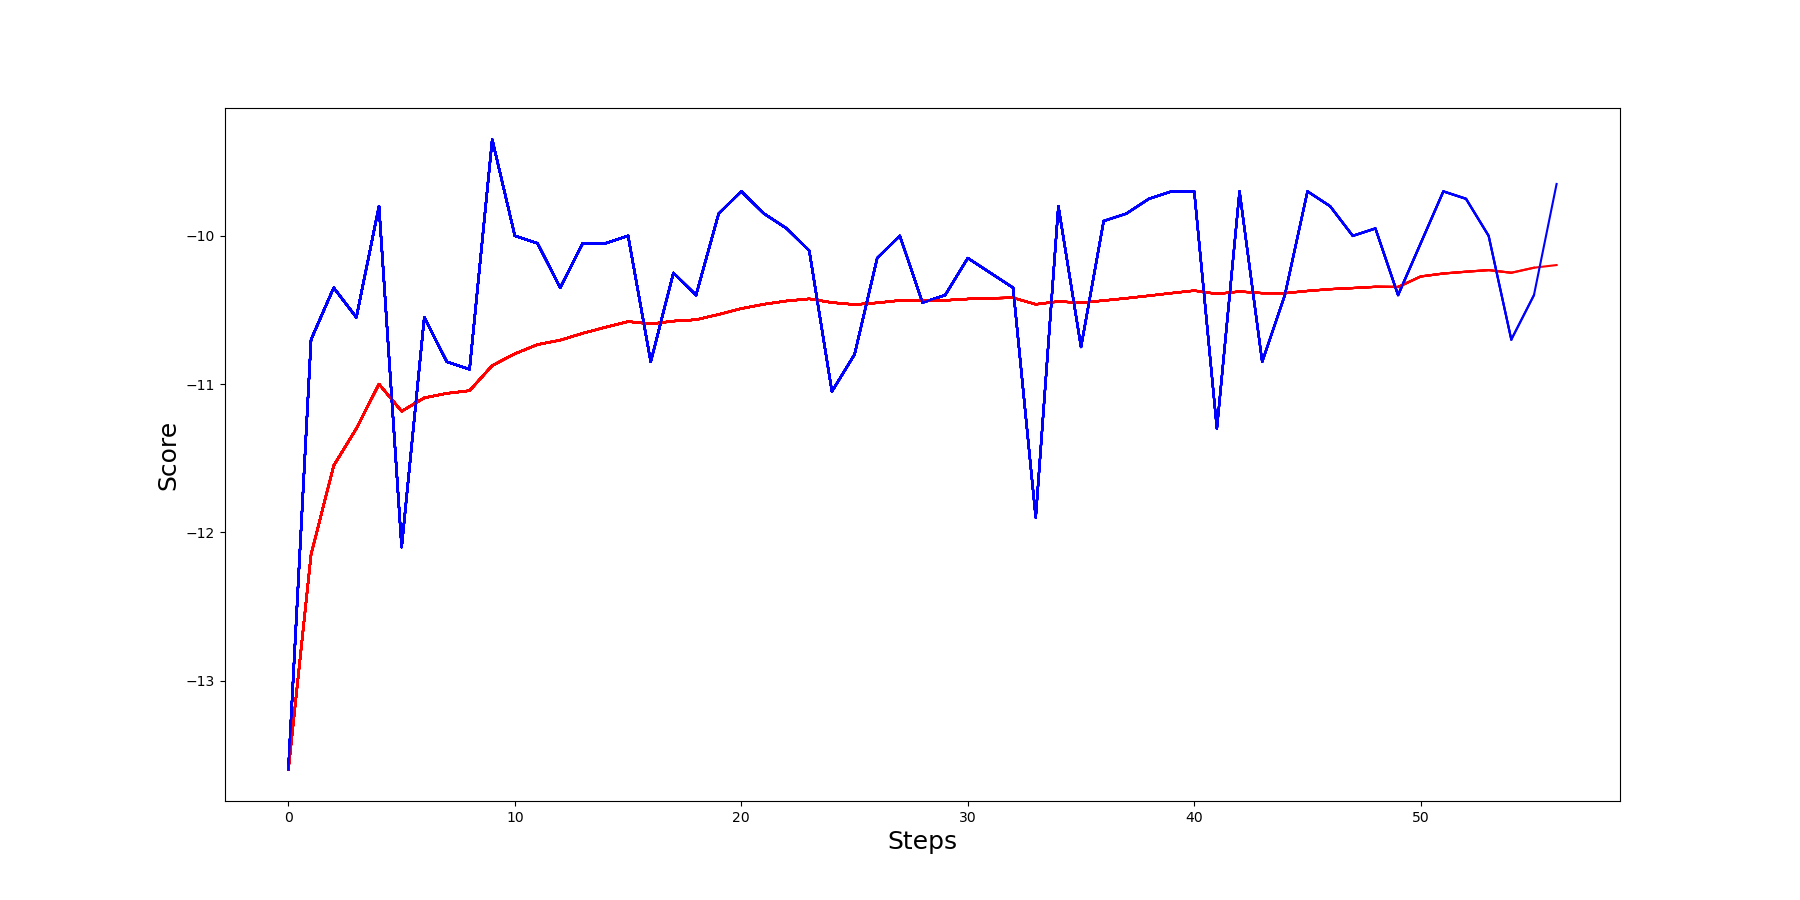
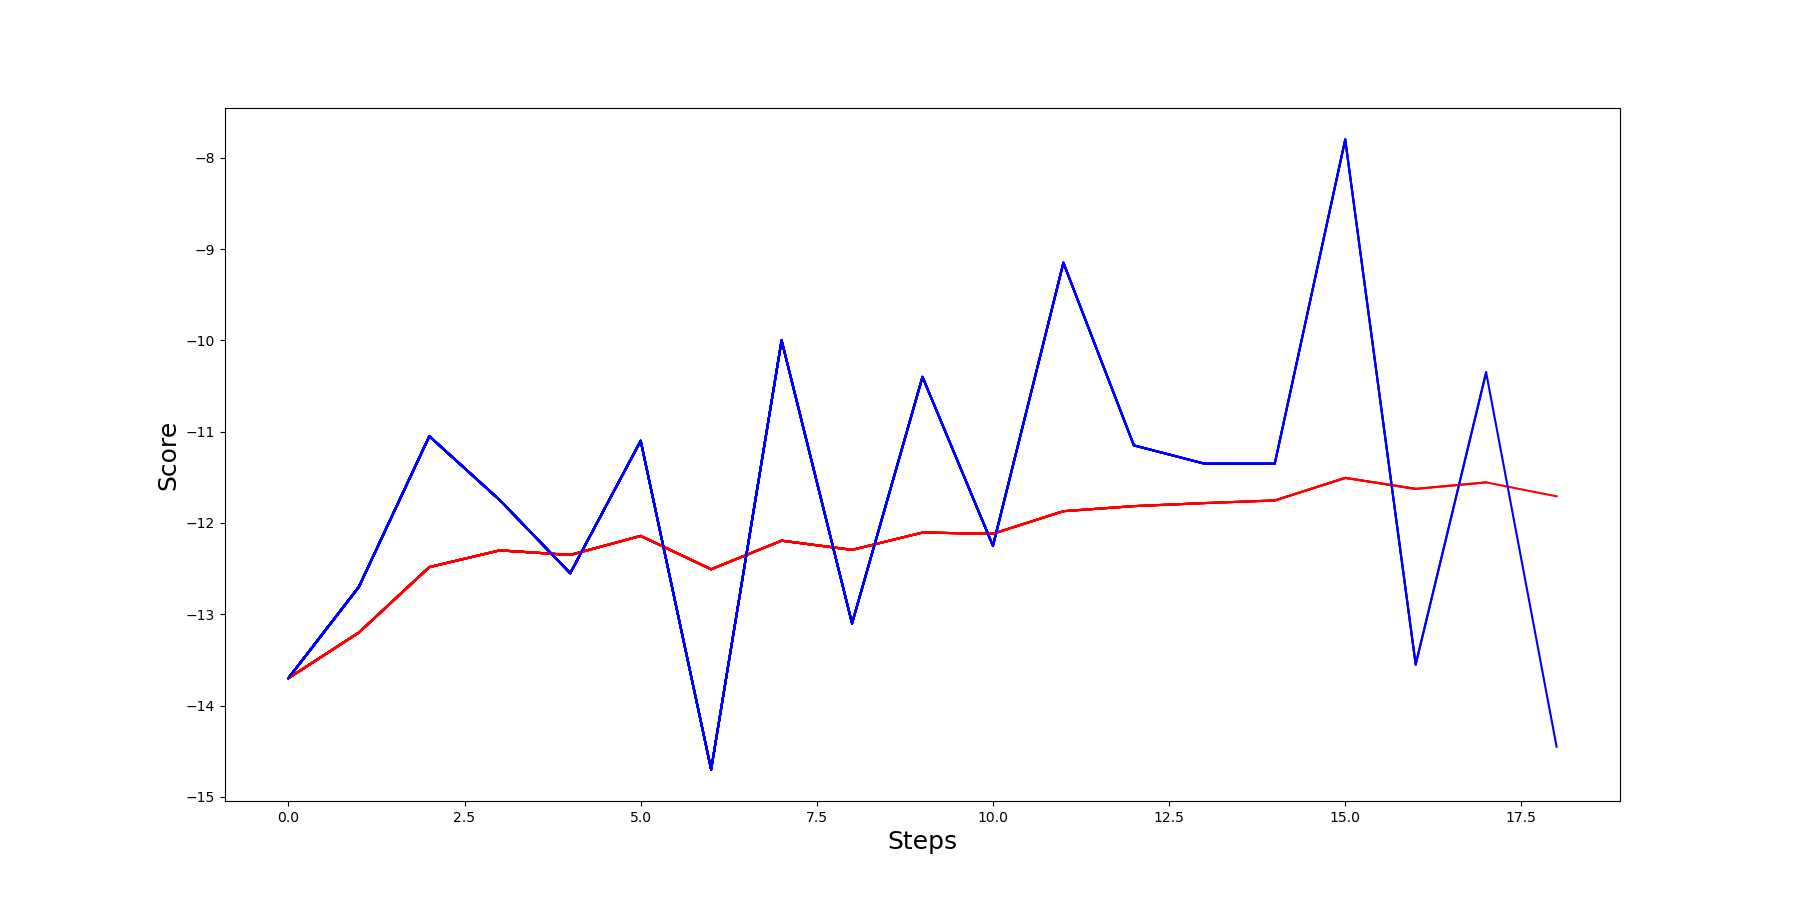
updated reward function

diff --git a/DQN_agent.py b/DQN_agent.py
@@ -130,7 +130,7 @@ class DQN:
 
     
     
-    def build_modelGPU(self, input_shape=(4,1,336), action_space=6, dueling=True):
+    def build_modelGPU(self, input_shape=(4,1,336,1), action_space=6, dueling=True):
         self.network_size = 256
 
         X_input = Input(shape=(4*336,))
@@ -139,19 +139,20 @@ class DQN:
         x_init ="he_uniform" 
         y_init = initializers.glorot_uniform()
         const_init = initializers.constant(1e-2)
-        X = Reshape(input_shape)(X) 
-        X =TimeDistributed(Dense(256, activation="softmax", bias_initializer=const_init,   kernel_initializer=truncatedn_init))(X)        
-        X =Dense(128, activation="linear", kernel_initializer=x_init)(X)        
-        X =Dense(512, activation="elu", kernel_initializer=x_init)(X)
+        X = Reshape(input_shape)(X)  
+        X =TimeDistributed(Dense(4,  activation="relu", bias_initializer=const_init, use_bias=True,  kernel_initializer=truncatedn_init))(X)        
+        X = Flatten()(X) 
+        X =Dense(512, activation="relu", kernel_initializer=x_init)(X)
             # X = Conv2D(64, 4, strides=(2),padding="valid",activation="elu", kernel_initializer=x_init,   data_format="channels_first")(X)
         # X = Conv2D(128, 4, strides=(2),padding="valid",activation="elu",kernel_initializer=x_init,   data_format="channels_first")(X) 3cnn
-        X = Flatten()(X)
+        
         # 'Dense' is the basic form of a neural network layer
         # Input Layer of state size(4) and Hidden Layer with 512 nodes         
         # X = Dense(512, activation="relu", kernel_initializer=x_init)(X) 
         # X = Dense(128, activation="relu", kernel_initializer=x_init)(X) 
         # X = Dense(64, activation="relu", kernel_initializer=x_init)(X)                
-        X = Dense(256, activation="elu", kernel_initializer=x_init)(X)       
+        X = Dense(256, activation="relu", kernel_initializer=x_init)(X)      
+        X = Dense(64, activation="relu", kernel_initializer=x_init)(X)        
         # # Hidden layer with 256 nodes
         # X = Dense(256, activation="relu", kernel_initializer=truncatedn_init, bias_initializer=const_init)(X)
         
@@ -168,7 +169,7 @@ class DQN:
             X = Add()([state_value, action_advantage])
         else:
             # Output Layer with # of actions: 2 nodes (left, right)
-            X = Dense(action_space, activation="elu",kernel_initializer='he_uniform', bias_initializer=const_init)(X)
+            X = Dense(action_space, activation="relu",kernel_initializer='he_uniform', bias_initializer=const_init)(X)
 
         model = Model(inputs = X_input, outputs = X, name = '3CNN_model')
         model.compile(loss="mean_squared_error", optimizer=Adam(lr=self.learning_rate),  metrics=["accuracy"])

diff --git a/StarShip.py b/StarShip.py
@@ -225,9 +225,11 @@ class StarShipGame:
                         sys.exit()  
                     if event.key == K_s:  
                         self.save=True
-                  
-                          
-            self.obstacleGenerator.updateAll()
+           
+            self.obstacleGenerator.updateAll()       
+            if (ObstacleGenerator.fails) > 0 :
+                self.done=True           
+                return   
             StarShipGame.liveProjectiles=self.spaceShipSprite.liveProjectiles             
             ObstacleGenerator.liveProjectiles=StarShipGame.liveProjectiles        
             hit = self.obstacleGenerator.checkHits()       
@@ -238,8 +240,7 @@ class StarShipGame:
                 self.reward-=.2
                 ObstacleGenerator.p_out_of_bounds=0
             self.checkHits()
-            if (ObstacleGenerator.fails) > 0 :
-                   self.done=True
+            
 
     def play(self):
         self.playing = True     
@@ -341,6 +342,7 @@ class StarShipGame:
                      self.done= True
                      return True
                 if ObstacleGenerator.fails>0:
+                    self.reward -=obstacleGenerator.fails * 0.5
                     self.done =True
                 return False
             
@@ -358,7 +360,7 @@ class StarShipGame:
                     StarShipGame.liveObstacles =self.obstacleGenerator.liveObstacles                 
                 
                     if alive :
-                        self.reward-=.2
+                        self.reward-=.3
                     else: 
                         self.reward-=.5
 

diff --git a/main.py b/main.py
@@ -20,7 +20,7 @@ parser = argparse.ArgumentParser(
     description='Args for initialising training and testing of RL Agent')
 parser.add_argument('--mode', '-m', default='train')
 parser.add_argument('--model', '--mp', default=None)
-parser.add_argument('--epochs', '-e', type=int,default=2000)
+parser.add_argument('--epochs', '-e', type=int,default=10000)
 parser.add_argument('--learnrate', '-l', default=.001)
 parser.add_argument('--plot', '-p', default=True)
 parser.add_argument('--graphics', '-g', default=True)
@@ -32,7 +32,7 @@ args = parser.parse_args()
  
 if __name__ == '__main__': 
     if args.checkpoint == None:  
-        args.checkpoint = 100
+        args.checkpoint = 500
         print("\n\n\n --checkpoint not given.\n Default checkpoint set at {} epochs.".format(args.checkpoint))
     else :
         print("checkpoint at {}".format(args.checkpoint))

diff --git a/Generators.py b/Generators.py
@@ -58,7 +58,7 @@ class ObstacleGenerator():
     def updateAll(self):
            for i in ObstacleGenerator.liveObstacles:
                i.updatePosition()               
-               ObstacleGenerator.fails = Obstacle.fails;
+               ObstacleGenerator.fails += Obstacle.fails;
            self.updateList() 
 
     def updateList(self):           

diff --git a/tempCodeRunnerFile.py b/tempCodeRunnerFile.py
@@ -1,2 +1,1 @@
-      print("Error.Check model is not incompatible with current enviroment configuration")
-                
+h', '-le', type=int, default=-1) 
